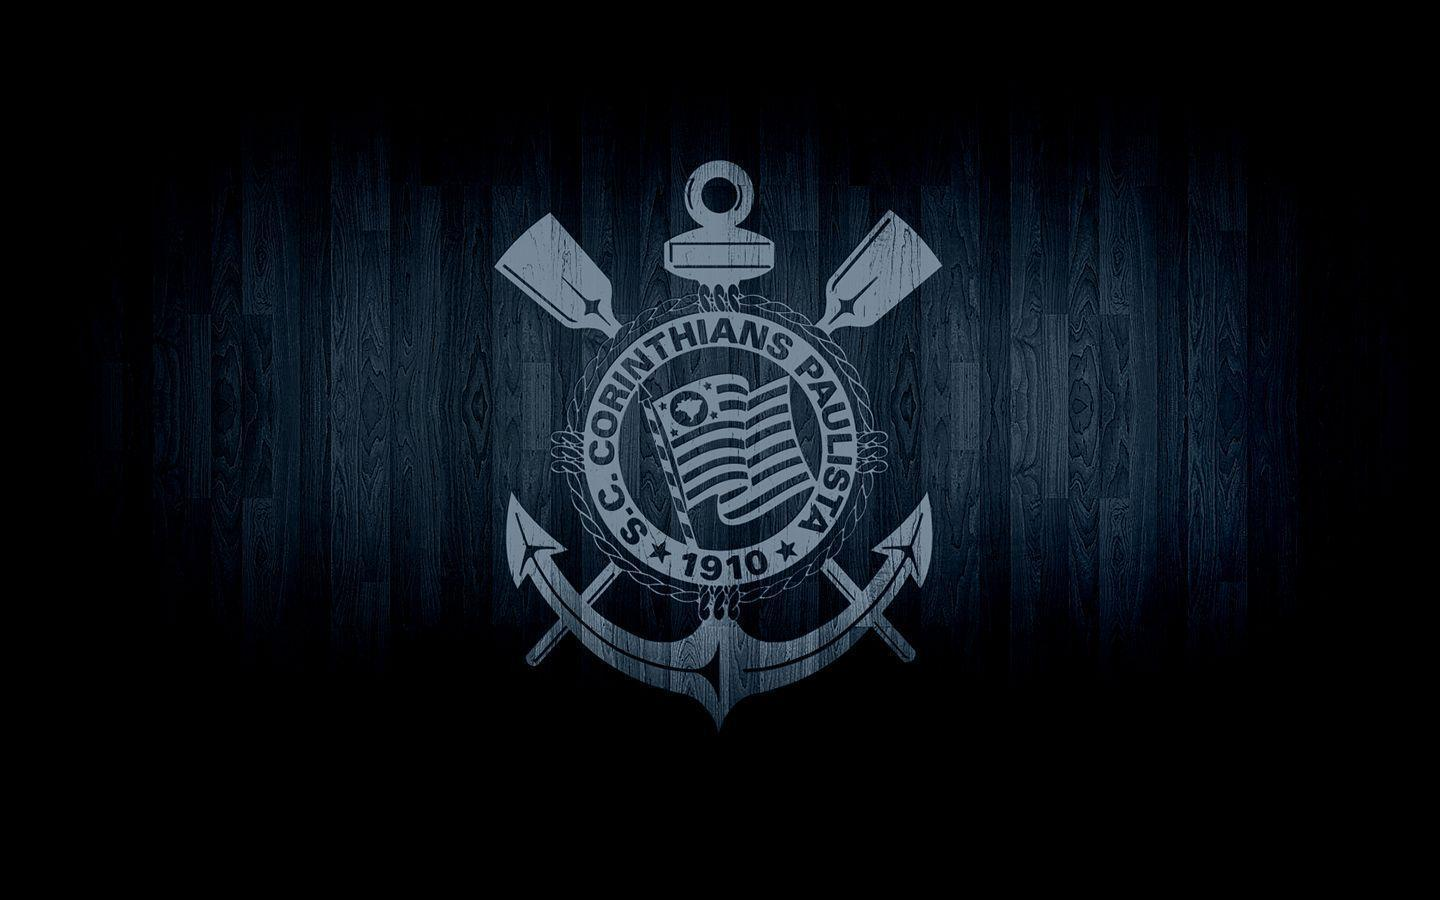
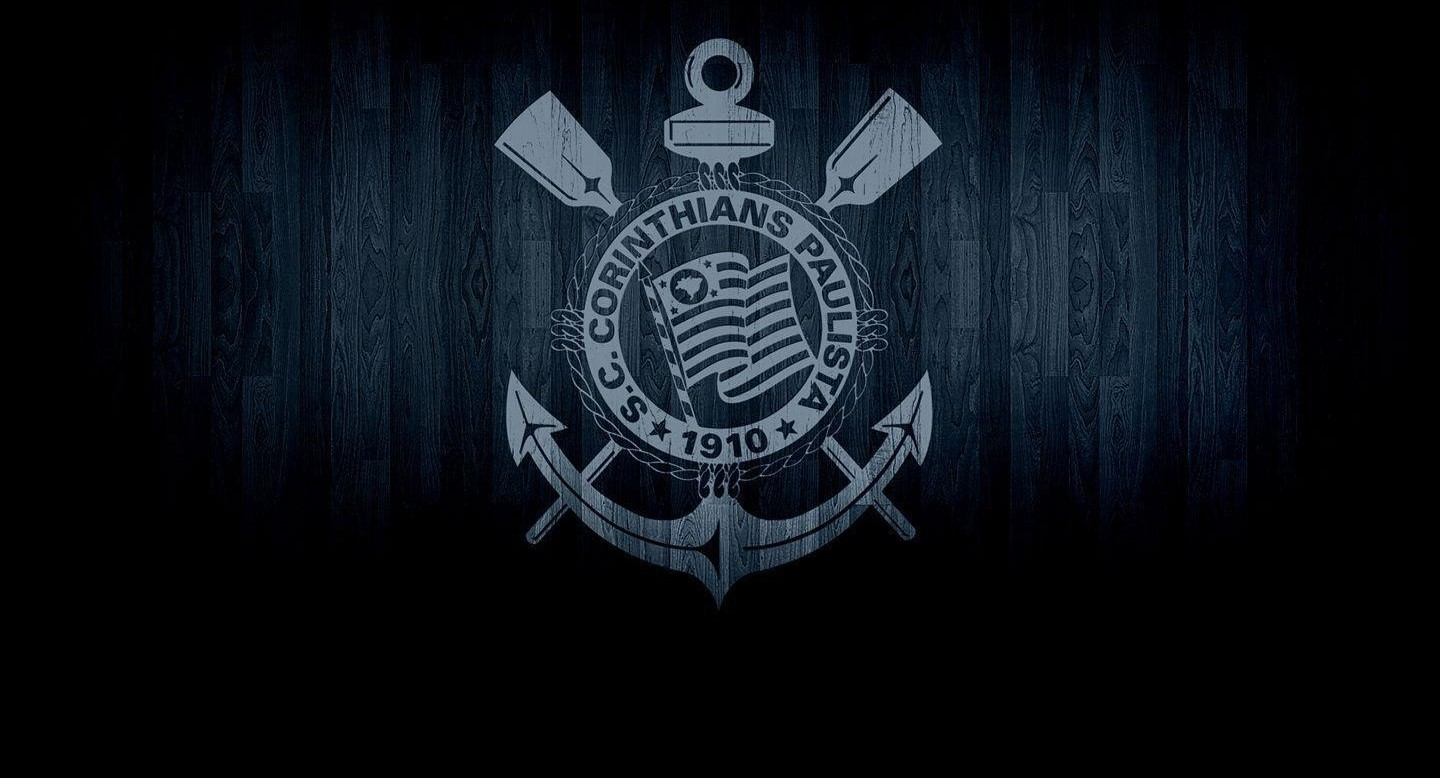
envio

diff --git a/home/style.css b/home/style.css
@@ -67,7 +67,7 @@ color: #ffffff;
     grid-area: corinthians;
     justify-content: center;
     align-items: center;
-    background-image: url('corinthians.jpeg2.jpeg');
+    background-image: url('corinthians.jpeg');
     object-fit: cover;
 }
 
